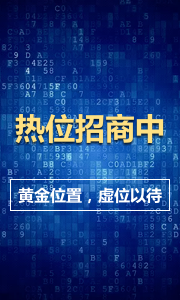
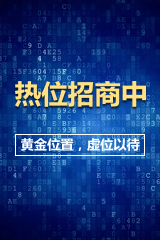
首页新增广告位

diff --git a/src/views/index/parts/bottomAd.vue b/src/views/index/parts/bottomAd.vue
@@ -13,18 +13,18 @@
       return {
         openLeft: 0,
         show: false,
-        closeLeft: -239
+        closeLeft: -179
       }
     },
     methods: {
       open() {
-        this.closeLeft = -239;
+        this.closeLeft = -179;
         setTimeout(() => {
           this.openLeft = 0;
         }, 1000)
       },
       close() {
-        this.openLeft = -239;
+        this.openLeft = -179;
         setTimeout(() => {
           this.closeLeft = 0;
         }, 1000)
@@ -42,10 +42,10 @@
     z-index: 99;
     .bottom-ad-close {
       position: absolute;
-      left: -239px;
+      left: -179px;
       bottom: 0;
-      height: 140px;
-      width: 239px;
+      height: 90px;
+      width: 179px;
       background: url('../../../assets/ad-close.png') no-repeat;
       cursor: pointer;
       transition: left 1s ease-in-out;
@@ -54,9 +54,9 @@
       position: absolute;
       left: 0;
       bottom: 0;
-      height: 140px;
+      height: 90px;
       width: 100%;
-      background: #0f1264 top center url('../../../assets/ad-open.jpg') no-repeat;
+      background: #0f1264 top center url('../../../assets/ad-open.png') no-repeat;
       transition: left 1s ease-in-out;
       .close {
         position: absolute;

diff --git a/src/views/index/parts/asideAd.vue b/src/views/index/parts/asideAd.vue
@@ -31,9 +31,9 @@
   .aside-ad {
     position: fixed;
     top: 200px;
-    width: 180px;
-    height: 300px;
-    background: url('../../../assets/aside-ad.png') no-repeat;
+    width: 160px;
+    height: 240px;
+    background: top center url('../../../assets/aside-ad.png') no-repeat;
     z-index: 999;
     &.right {
       right: 5px;
